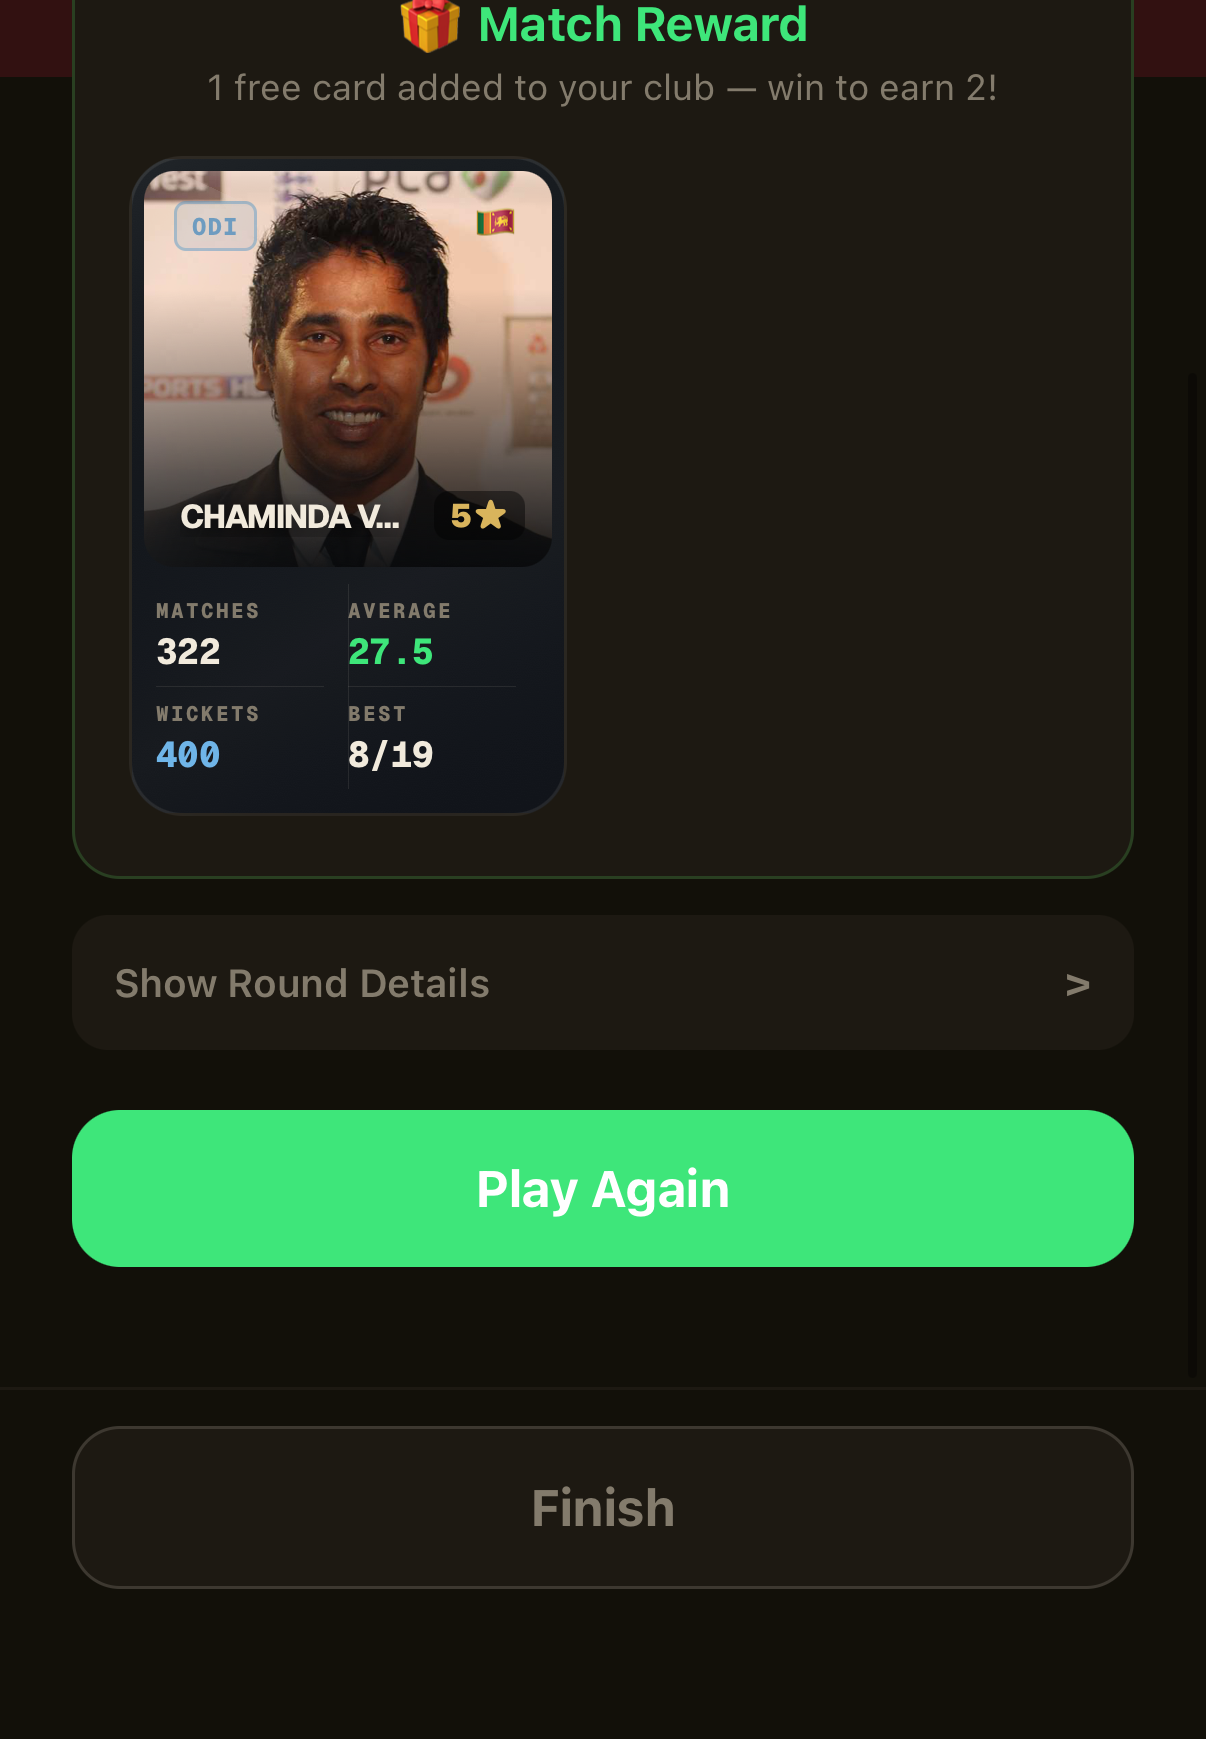
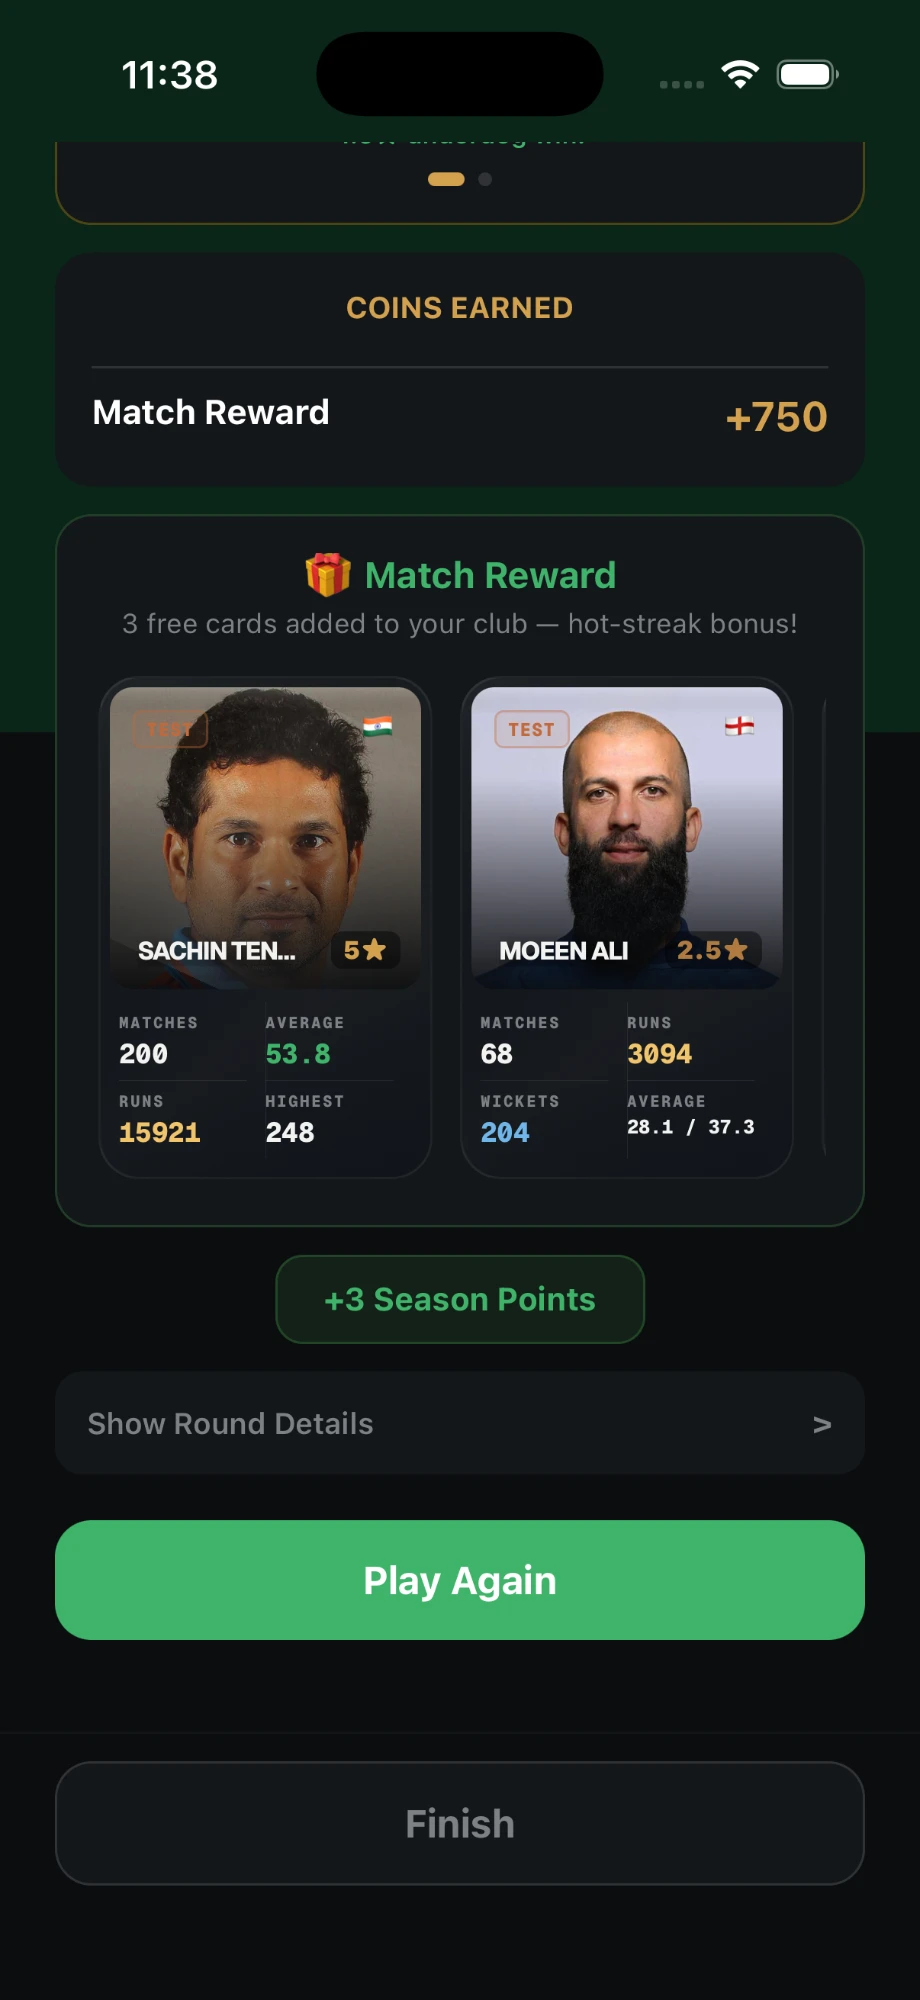
story deck: MongoDB+Railway architecture (Railway dashboard), multi-card reward shot, fact audit (30s turns, 651 cards, Supabase de-branded)

diff --git a/docs/story/index.html b/docs/story/index.html
@@ -168,7 +168,7 @@
           <div class="step"><span class="b">1</span><div><div class="st">Hold a hand of cards</div><div class="sd">real cricketers — batsmen, bowlers, all-rounders</div></div></div>
           <div class="step"><span class="b">2</span><div><div class="st">Call a stat each round</div><div class="sd">pick your strongest number — runs, wickets, strike rate</div></div></div>
           <div class="step"><span class="b">3</span><div><div class="st">Better number wins</div><div class="sd">higher wins — <span class="gold">lower</span> for bowling average &amp; economy</div></div></div>
-          <div class="step"><span class="b">4</span><div><div class="st">Capture the card</div><div class="sd">most cards wins the match · 15-second turns</div></div></div>
+          <div class="step"><span class="b">4</span><div><div class="st">Capture the card</div><div class="sd">most cards wins the match · 30-second turns</div></div></div>
         </div>
         <div class="row wrap gap-s" style="gap:10px"><span class="chip g">Test</span><span class="chip g">ODI</span><span class="chip g">T20</span><span class="chip g">IPL</span></div>
       </div>
@@ -289,12 +289,12 @@
         <div class="node"><span class="nt">🍃 MongoDB</span><span class="nd">one document per player · cron-refreshed</span></div>
       </div>
       <div class="panel glow" style="padding:7px;border-radius:13px"><img src="assets/d-mongodb.png" alt="" style="max-height:42vh;width:auto;max-width:100%;border-radius:7px;display:block"></div>
-      <div class="row wrap center gap-s"><span class="chip y">real career stats</span><span class="chip">986 players</span><span class="chip">cron auto-refresh</span></div>
+      <div class="row wrap center gap-s"><span class="chip y">real career stats</span><span class="chip">651 active cards</span><span class="chip">cron auto-refresh</span></div>
     </div>
   </section>
 
   <!-- 7 · REAL PLAYER PHOTOS + DELIVERY (merged) -->
-  <section class="slide" data-notes="Every card fronts a real photo — sourced from Cricbuzz and free-licensed archives, reviewed card by card, credited on a public page, and served worldwide from a Supabase CDN. MongoDB stores only the URL; the image bytes never touch the database.">
+  <section class="slide" data-notes="Every card fronts a real photo — sourced from Cricbuzz and free-licensed archives, reviewed card by card, credited on a public page, and served worldwide from a CDN. MongoDB stores only the URL; the image bytes never touch the database.">
     <div class="col stagger" style="gap:6px"><div class="kicker">Chapter 6 · the photos</div><h2>Real players, <span class="grad">real photos.</span></h2></div>
     <div class="fill row mt-s" style="gap:1.9vw;align-items:center">
       <div class="col center"><div class="phone wide ph-h60"><img src="assets/s-akram.png" alt=""></div><div class="cap">Photo gallery<small>Wasim Akram · swipe through the years</small></div></div>
@@ -302,23 +302,23 @@
       <div class="col fill gap-s">
         <div class="code"><span class="h k">▸ the photo pipeline</span>Cricbuzz API + Wikimedia Commons → reviewed card by card — right player, right era, right kit → <span class="y">headshot + action galleries</span> on 700+ cards</div>
         <div class="code"><span class="h k">▸ the credits</span>every free-licensed image attributed on a <span class="y">public credits page</span> — licence + photographer, per photo</div>
-        <div class="code"><span class="h k">▸ the delivery</span>Supabase Storage → public bucket → CDN — MongoDB stores <span class="y">only the URL</span>; the image bytes never touch the database</div>
-        <div class="row" style="gap:9px;flex-wrap:wrap"><span class="chip">Wikimedia Commons</span><span class="chip y">licensed + credited</span><span class="chip">Supabase CDN</span><span class="chip">700+ real photos</span></div>
+        <div class="code"><span class="h k">▸ the delivery</span>stored once in a public bucket, served from a CDN — MongoDB stores <span class="y">only the URL</span>; the image bytes never touch the database</div>
+        <div class="row" style="gap:9px;flex-wrap:wrap"><span class="chip">Wikimedia Commons</span><span class="chip y">licensed + credited</span><span class="chip">CDN-served</span><span class="chip">700+ real photos</span></div>
       </div>
     </div>
   </section>
 
   <!-- 8 · DATA & STORAGE -->
-  <section class="slide" data-notes="The data layer up close. MongoDB Atlas is the source of truth — every card, user and match as documents. Supabase Storage is the photo CDN — the cricket-players bucket serves every headshot and action shot worldwide. The NestJS API rides Railway, deployed on every push.">
-    <div class="col stagger" style="gap:6px"><div class="kicker">Chapter 7 · data &amp; storage</div><h2><span class="grad">MongoDB</span> + <span class="grad">Supabase.</span></h2></div>
-    <div class="fill row mt-s" style="gap:1.8vw;align-items:stretch">
+  <section class="slide" data-notes="The data layer up close. MongoDB Atlas is the source of truth — every card, user and match as documents. The NestJS API rides Railway, deployed on every push; photos live in a public CDN bucket and Mongo stores only the URL.">
+    <div class="col stagger" style="gap:6px"><div class="kicker">Chapter 7 · data &amp; storage</div><h2><span class="grad">MongoDB</span> + <span class="grad">Railway.</span></h2></div>
+    <div class="fill row mt-s" style="gap:1.5vw;align-items:stretch">
       <div class="col" style="flex:1;gap:9px">
         <div class="panel" style="padding:7px;border-radius:12px"><img src="assets/d-mongodb.png" alt="" style="width:100%;border-radius:7px;display:block"></div>
         <div><h3 class="green">🍃 MongoDB Atlas — the data layer</h3><p style="margin-top:3px">Every card, user and match — the source of truth. <span class="chip" style="margin-left:4px">651 active cards</span> <span class="chip">users</span> <span class="chip">matches</span></p></div>
       </div>
       <div class="col" style="flex:1;gap:9px">
-        <div class="panel glow" style="padding:7px;border-radius:12px"><img src="assets/d-supabase-store.png" alt="" style="width:100%;border-radius:7px;display:block"></div>
-        <div><h3 class="gold">⚡ Supabase Storage — the photo CDN</h3><p style="margin-top:3px">The <b>cricket-players</b> bucket serves every photo worldwide; the API rides Railway, deployed on push. <span class="chip y" style="margin-left:4px">public bucket</span> <span class="chip y">🚂 Railway API</span></p></div>
+        <div class="panel" style="padding:7px;border-radius:12px"><img src="assets/d-railway.png" alt="" style="width:100%;border-radius:7px;display:block"></div>
+        <div><h3 class="gold">🚂 Railway — the API</h3><p style="margin-top:3px">The NestJS backend, deployed on every push to main — photos ride a public CDN bucket, Mongo keeps only the URL. <span class="chip y" style="margin-left:4px">build → deploy → live</span> <span class="chip y">/health check</span></p></div>
       </div>
     </div>
   </section>
@@ -360,7 +360,7 @@
         <div class="s"><span class="dot"></span><span class="t green">🚀 Shipped</span><span class="d">on phones</span></div>
       </div>
       <div class="row wrap center gap-s" style="gap:10px;justify-content:center">
-        <span class="chip g">Claude Code</span><span class="chip g">Claude Design</span><span class="chip">Cricbuzz</span><span class="chip">MongoDB</span><span class="chip">Supabase</span><span class="chip">Amplitude</span><span class="chip">Railway</span><span class="chip">React Native</span><span class="chip">NestJS</span>
+        <span class="chip g">Claude Code</span><span class="chip g">Claude Design</span><span class="chip">Cricbuzz</span><span class="chip">MongoDB</span><span class="chip">Amplitude</span><span class="chip">Railway</span><span class="chip">React Native</span><span class="chip">NestJS</span>
       </div>
       <p class="center lead" style="text-align:center">The barrier was never the code. It was a <span class="green">clear idea</span>, described well.</p>
     </div>
